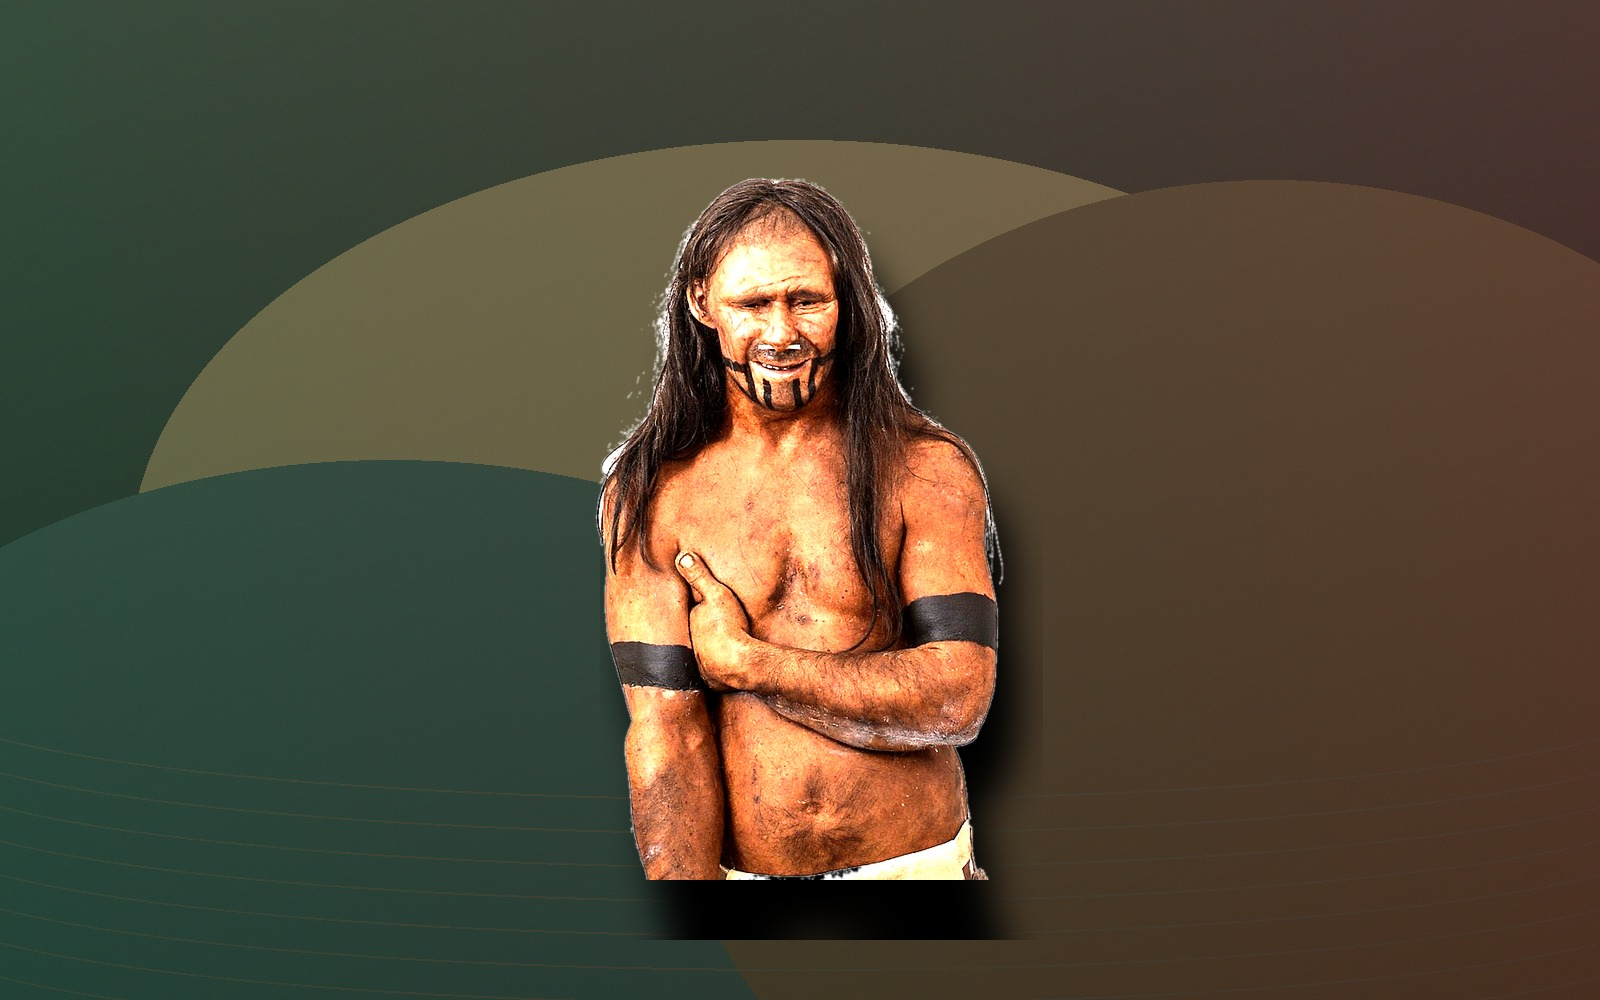
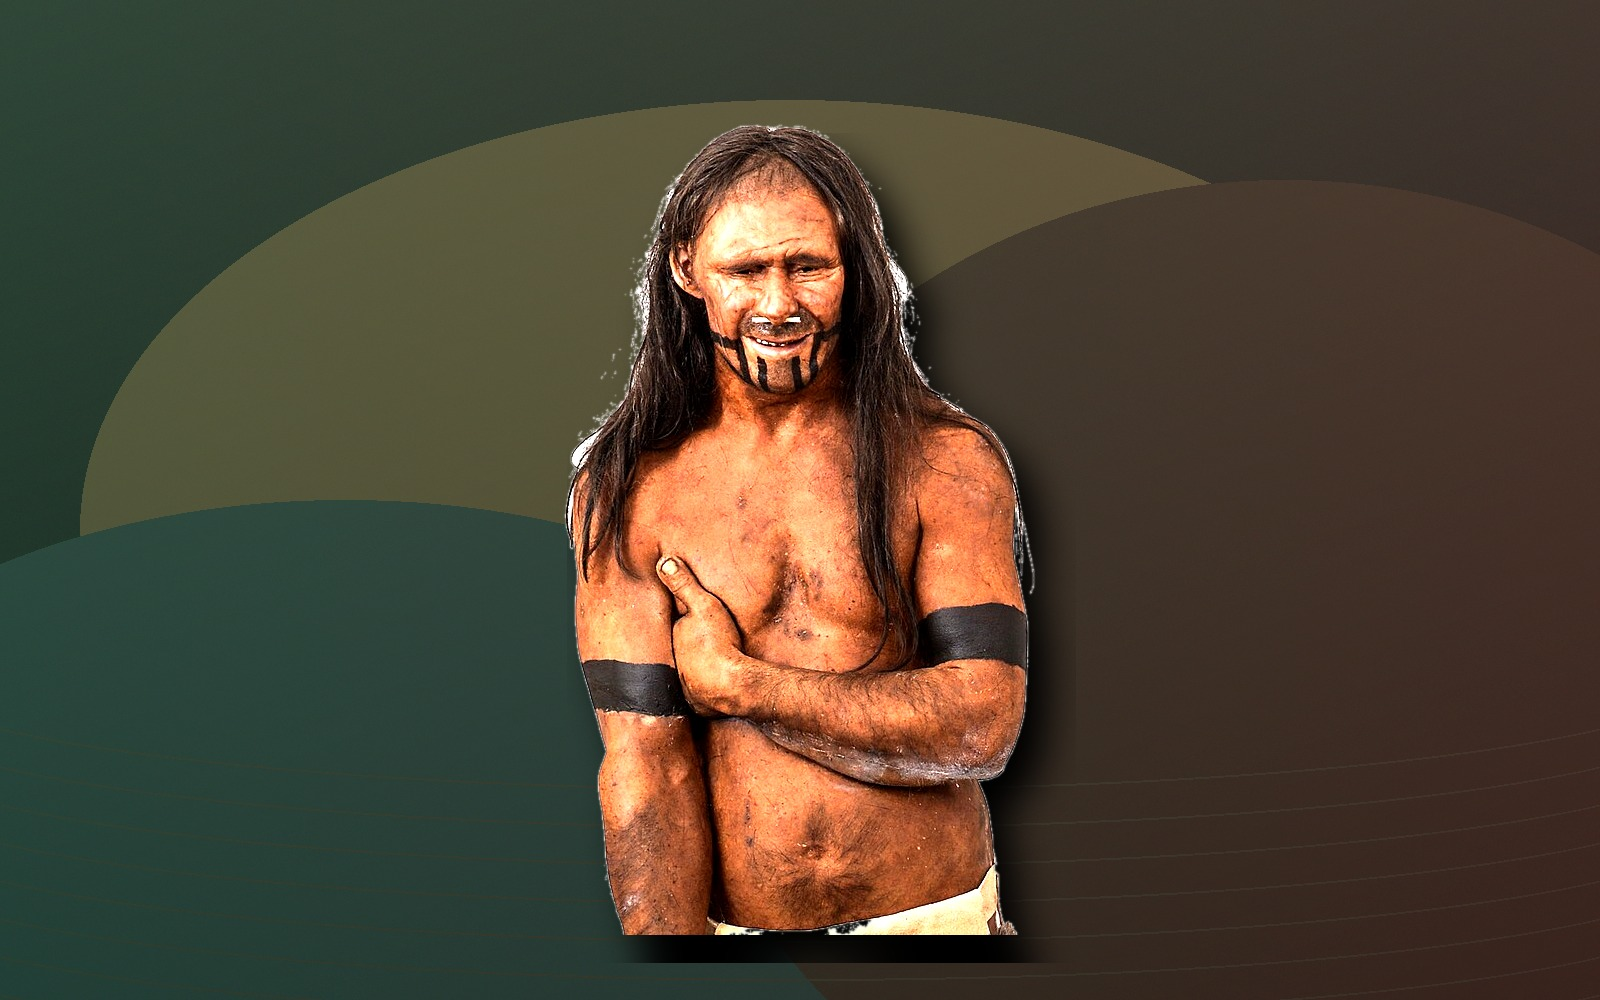
Refine stage image visual sequence

Changed region(s): [[0.0312, 0.093, 0.75, 0.992]]

diff --git a/src/data/sourceImages.ts b/src/data/sourceImages.ts
@@ -43,12 +43,12 @@ export const SOURCE_IMAGES: Record<string, SourceImageRecord> = {
     "description": "Here we see a Paramecium (stained with safranin) undergoing cyst formation in an extremely dehydrating environment as onlooking gram +ve bacteria look on"
   },
   "choanoflagellates": {
-    "src": "/assets/images/source-backed/choanoflagellates.png",
+    "src": "/assets/images/source-backed/choanoflagellates-museum.jpg",
     "sourceUrl": "https://commons.wikimedia.org/wiki/File:PhysRevLett.116.038102-Fig1.png",
-    "credit": "Julius B. Kirkegaard, Alan O. Marron, Raymond E. Goldstein / Wikimedia Commons",
+    "credit": "Julius B. Kirkegaard, Alan O. Marron, Raymond E. Goldstein / Wikimedia Commons / локальная музейная обработка",
     "license": "CC BY 3.0",
     "commonsTitle": "File:PhysRevLett.116.038102-Fig1.png",
-    "description": "The choanoflagellate Salpingoeca rosetta . (a) Bright field image (5 μm scale) and (b) schematics of ‘slow-swimmer’ single cell, base angle θ, and rosette colony."
+    "description": "The choanoflagellate Salpingoeca rosetta, placed on a local museum-style background."
   },
   "ediacaran": {
     "src": "/assets/images/source-backed/ediacaran-diorama-nmnh.jpg",
@@ -67,12 +67,12 @@ export const SOURCE_IMAGES: Record<string, SourceImageRecord> = {
     "description": "Life reconstruction of Kimberella, an early bilaterian-like animal."
   },
   "early-chordates": {
-    "src": "/assets/images/source-backed/early-chordates.png",
+    "src": "/assets/images/source-backed/early-chordates-museum.jpg",
     "sourceUrl": "https://commons.wikimedia.org/wiki/File:Schematic_anatomical_reconstruction_of_Pikaia_flipped.png",
-    "credit": "Giovanni Mussini, M. Paul Smith, Jakob Vinther, Imran A. Rahman, Duncan J.E. Murdock, David A.T. Harper, Frances S. Dunn / Wikimedia Commons",
+    "credit": "Giovanni Mussini, M. Paul Smith, Jakob Vinther, Imran A. Rahman, Duncan J.E. Murdock, David A.T. Harper, Frances S. Dunn / Wikimedia Commons / локальная музейная обработка",
     "license": "CC BY 4.0",
     "commonsTitle": "File:Schematic anatomical reconstruction of Pikaia flipped.png",
-    "description": "Schematic reconstruction of the anterior region of Pikaia under the new anatomical interpretation, showing the anterior appendages as dorsally directed gills."
+    "description": "Schematic reconstruction of Pikaia, placed on a local museum-style background."
   },
   "early-vertebrates": {
     "src": "/assets/images/source-backed/early-vertebrates.png",
@@ -203,12 +203,14 @@ export const SOURCE_IMAGES: Record<string, SourceImageRecord> = {
     "description": "Life restoration of Plesiadapis, placed on a local museum-style background."
   },
   "anthropoids": {
-    "src": "/assets/images/source-backed/oligocene-primates-scene.jpg",
-    "sourceUrl": "https://commons.wikimedia.org/wiki/File:Oligocene_primates.jpg",
-    "credit": "Wikimedia Commons",
-    "license": "см. исходный источник",
-    "commonsTitle": "File:Oligocene primates.jpg, cropped scene",
-    "description": "Cropped habitat and life reconstruction scene from an Oligocene primates panel."
+    "src": "/assets/images/source-backed/generated-anthropoid-primate.jpg",
+    "sourceUrl": "https://openai.com/",
+    "credit": "OpenAI image generation / локальная реконструкция",
+    "license": "AI-реконструкция; не исходное научное изображение",
+    "commonsTitle": "generated-anthropoid-primate",
+    "description": "Generated museum paleoart reconstruction of an early Oligocene anthropoid primate.",
+    "kind": "generated-reconstruction",
+    "promptId": "early-oligocene-anthropoid-paleoart-2026-06-17"
   },
   "new-world-monkeys": {
     "src": "/assets/images/source-backed/capuchin-branch.jpg",